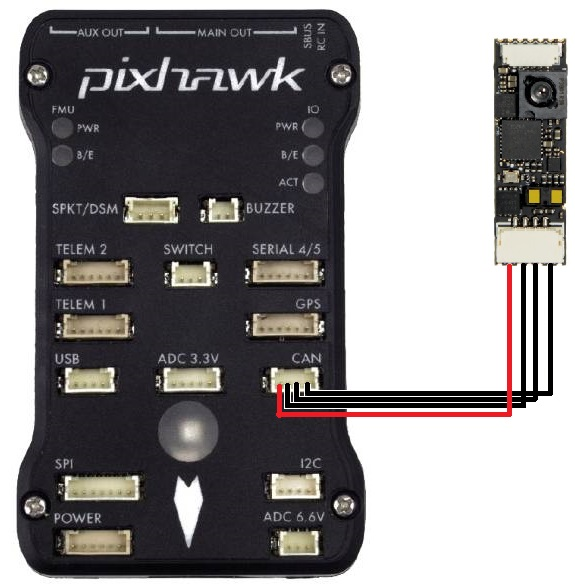
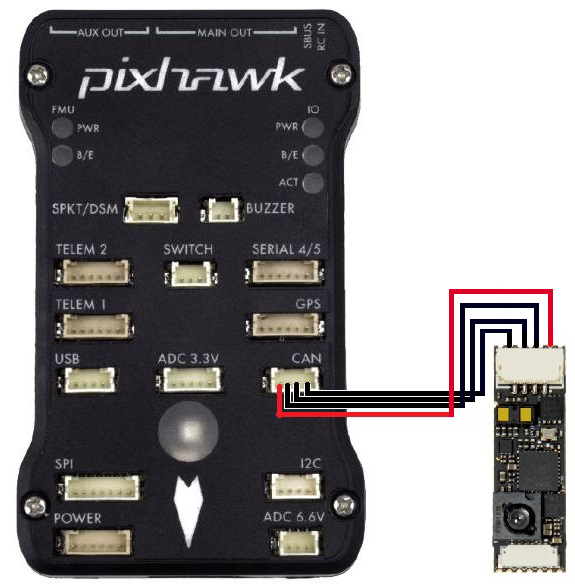
HereFlow: fix mounting orientation

Changed region(s): [[0.7687, 0.0612, 1.0, 0.9796]]

diff --git a/common/source/docs/common-hereflow.rst b/common/source/docs/common-hereflow.rst
@@ -29,7 +29,7 @@ Connection to Autopilot
    :target: ../_images/hereflow-pixhawk.jpg
    :width: 450px
 
-- The flow sensor should be mounted on the underside of the copter with the camera lens pointing downwards.  The side of the sensor with the lens should be towards the front of the vehicle.  The image above is incorrect because the autopilot's arrow is pointing down while the sensor's lens is close to the top.
+- The flow sensor should be mounted on the underside of the copter with the camera lens pointing downwards.  The side of the sensor with the lens should be towards the front of the vehicle.
 - Connect the sensor to the autopilots' CAN port (if using a Cube note that pre-Apr 2019 boards have CAN1 and CAN2 swapped)
 - Set :ref:`FLOW_TYPE <FLOW_TYPE>` = 6 (UAVCAN)
 - Set :ref:`CAN_P1_DRIVER <CAN_P1_DRIVER>` = 1 to enable UAVCAN
